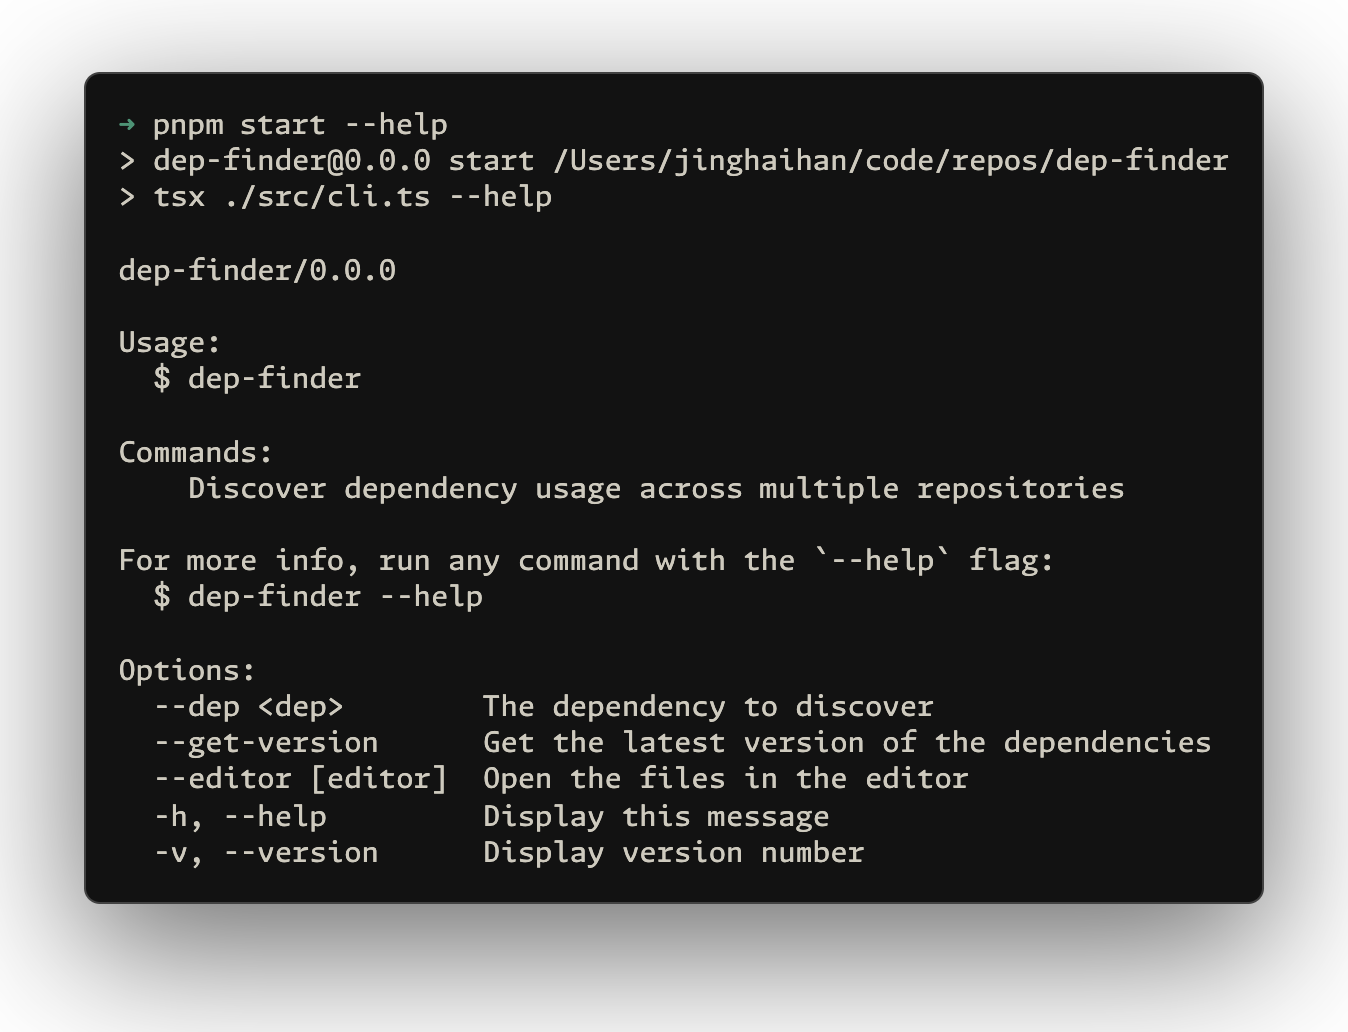
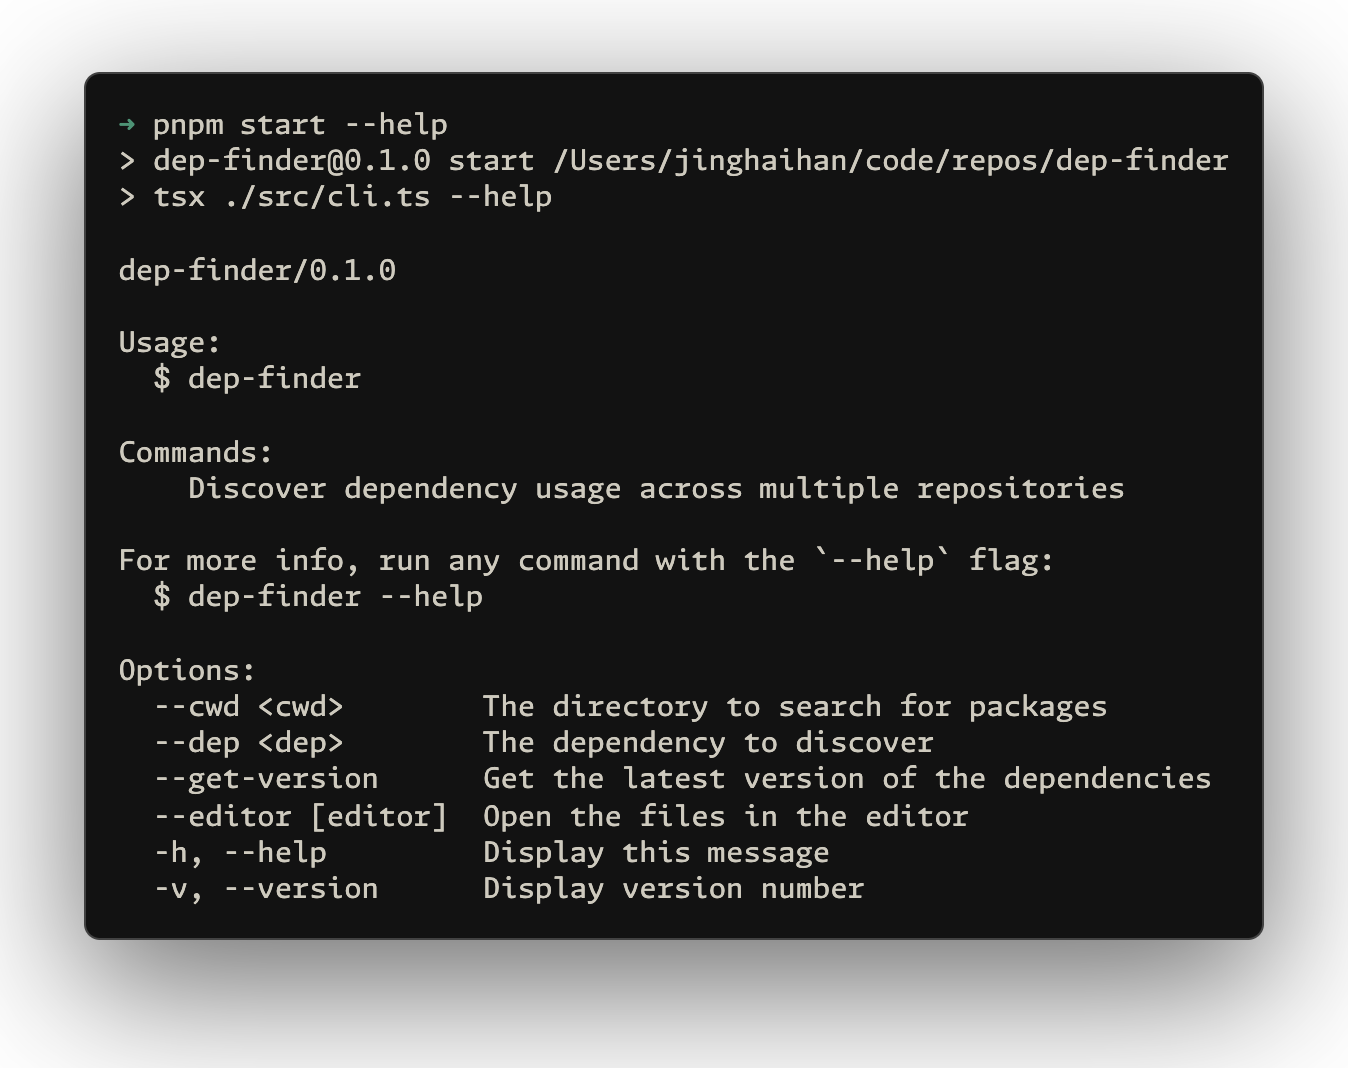
docs: update README

diff --git a/src/constants.ts b/src/constants.ts
@@ -19,26 +19,27 @@ export const DEP_TYPES = [
   'pnpm.overrides',
 ] as const
 
+/// keep-sorted
 export const EDITOR_NAMES = {
   'AppCode': 'appcode',
-  'Atom': 'atom',
   'Atom Beta': 'atom-beta',
+  'Atom': 'atom',
   'Brackets': 'brackets',
   'Clion': 'clion',
-  'Visual Studio Code': 'code',
-  'Visual Studio Code Insiders': 'code-insiders',
-  'VSCodium': 'codium',
   'Cursor': 'cursor',
   'Emacs': 'emacs',
   'IDEA': 'idea',
   'Notepad++': 'notepad++',
-  'PyCharm': 'pycharm',
   'PhpStorm': 'phpstorm',
+  'PyCharm': 'pycharm',
   'Rider': 'rider',
   'RubyMine': 'rubymine',
   'Sublime Text': 'sublime',
   'Vim': 'vim',
+  'Visual Studio Code Insiders': 'code-insiders',
+  'Visual Studio Code': 'code',
   'Visual Studio': 'visualstudio',
+  'VSCodium': 'codium',
   'WebStorm': 'webstorm',
   'Zed': 'zed',
 }

diff --git a/src/cli.ts b/src/cli.ts
@@ -16,6 +16,7 @@ try {
 
   cli
     .command('', 'Discover dependency usage across multiple repositories')
+    .option('--cwd <cwd>', 'The directory to search for packages')
     .option('--dep <dep>', 'The dependency to discover')
     .option('--get-version', 'Get the latest version of the dependencies')
     .option('--editor [editor]', 'Open the files in the editor')

diff --git a/README.md b/README.md
@@ -7,6 +7,10 @@
 
 A CLI tool for discovering dependency usage across multiple repositories. Quickly find all `package.json` and `pnpm-workspace.yaml` files that reference specific dependencies, making it easy to manage and upgrade packages across your entire project ecosystem.
 
+```
+npx dep-finder --cwd <path> --dep <package> --editor [name]
+```
+
 ## Usage
 
 <p align='center'>
